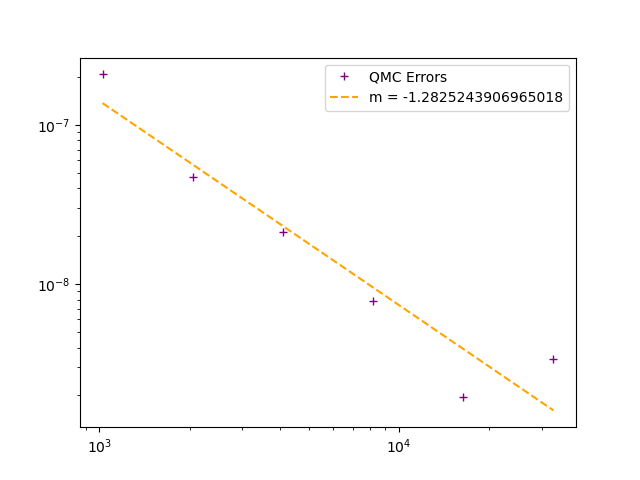
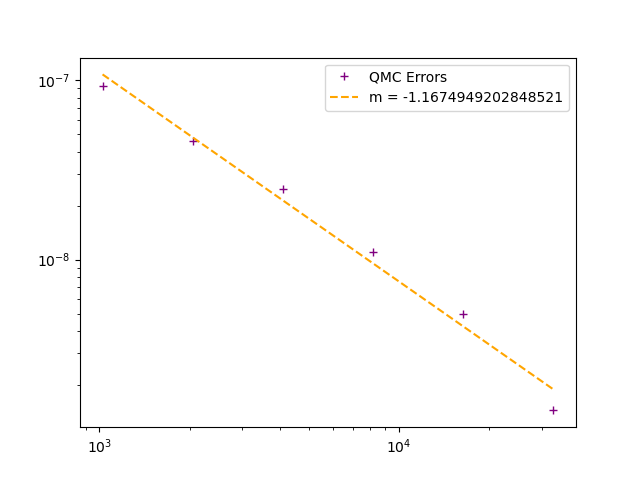
refactoring

diff --git a/Exercise Sheet 11/ex1.py b/Exercise Sheet 11/ex1.py
@@ -1,3 +1,11 @@
+"""
+@Author:    Christoph M. Jankowsky
+@Date:      2023-02-05
+
+My solutions to Sheet 11 - Exercise 1 of the course 
+Uncertainty Quantification and Quasi-Monte Carlo at FU Berlin.
+"""
+
 import numpy as np
 from scipy import interpolate
 from scipy.sparse.linalg import spsolve
@@ -6,7 +14,6 @@ import matplotlib.pyplot as plt
 from FEM import FEMdata, UpdateStiffness
 
 def findSol(level:int):
-    # Find FE solution on a coarse mesh
     mass,grad,nodes,element,interior,centers,ncoord,nelem = FEMdata(level)
     A = UpdateStiffness(grad,np.ones(centers.shape[0]))
     f = lambda x: x[:, 0]
@@ -22,15 +29,12 @@ if __name__ == "__main__":
     errors = np.zeros(4)
 
     for level in range(4):
-        # Find FE solution on a coarse mesh
         sol_coarse, nodes_coarse, _ = findSol(level+1)
-        # Interpolate the coarse FE results onto dense FE mesh
         sol_interp = interpolate.griddata((nodes_coarse[:,0],nodes_coarse[:,1]),sol_coarse,(nodes_ref[:,0],nodes_ref[:,1]))
-        # Compute the L2 error between the two FE solutions
         errors[level] = (np.sqrt((sol_ref-sol_interp).T @ mass_ref @ (sol_ref-sol_interp)))
 
     for level, error in enumerate(errors):
-        print(f"Error at level {level+1}: {error}.")
+        print(f"Error at level {level+1}: \t{error}.")
 
     plt.plot(range(1,5), errors, label="Finite Element Errors", marker="+", ls="", color="purple")
     m,b = np.polyfit(range(1,5), errors, 1)

diff --git a/Exercise Sheet 11/ex3.py b/Exercise Sheet 11/ex3.py
@@ -1,3 +1,11 @@
+"""
+@Author:    Christoph M. Jankowsky
+@Date:      2023-02-05
+
+My solutions to Sheet 11 - Exercise 3 of the course 
+Uncertainty Quantification and Quasi-Monte Carlo at FU Berlin.
+"""
+
 import time
 import numpy as np
 from scipy import sparse
@@ -8,7 +16,6 @@ import matplotlib.pyplot as plt
 from FEM import FEMdata, UpdateStiffness
 
 if __name__ == "__main__":
-    # Load FEM data
     mass, grad, nodes, element, interior, centers, ncoord, nelem = FEMdata(5)
 
     random_field_decay = 2.0
@@ -17,10 +24,10 @@ if __name__ == "__main__":
     deterministic = indices**(-random_field_decay) * np.sin(np.pi * indices * centers[:,0]) * np.sin(np.pi * indices * centers[:,1])
     a = lambda y: 2 + y @ deterministic
 
-    f = lambda x: x[:,0] # source term
+    f = lambda x: x[:,0]
     rhs = mass[interior,:] @ f(nodes)
 
-    R = 4
+    R = 16
     generating_vector = np.loadtxt('Exercise Sheet 11/data/offtheshelf2048.txt')
     z = generating_vector[:s]
 
@@ -38,7 +45,7 @@ if __name__ == "__main__":
     for n_qmc_nodes in N:
         results = []
     
-        # For each random shift, compute the QMC estimate using n cubature nodes
+        # For each random shift, compute the QMC estimate using (n_qmc_nodes) cubature nodes
         print(f"Solving {n_qmc_nodes} PDEs in parallel with {R} random shifts...")
         t = time.perf_counter()
         with Parallel(n_jobs=-1, verbose=0) as parallel:

diff --git a/Exercise Sheet 11/ex2.py b/Exercise Sheet 11/ex2.py
@@ -1,3 +1,11 @@
+"""
+@Author:    Christoph M. Jankowsky
+@Date:      2023-02-05
+
+My solutions to Sheet 11 - Exercise 2 of the course 
+Uncertainty Quantification and Quasi-Monte Carlo at FU Berlin.
+"""
+
 import time
 import numpy as np
 from scipy import sparse
@@ -8,10 +16,9 @@ import matplotlib.pyplot as plt
 from FEM import FEMdata, UpdateStiffness
 
 if __name__ == "__main__":
-    # Load FEM data
     mass, grad, nodes, element, interior, centers, ncoord, nelem = FEMdata(5)
     random_field_decay = 2.0
-    f = lambda x: x[:,0] # source term
+    f = lambda x: x[:,0]
     rhs = mass[interior,:] @ f(nodes)
     n_qmc_nodes = 2**15
     generating_vector = np.loadtxt('Exercise Sheet 11/data/offtheshelf2048.txt')
@@ -23,7 +30,7 @@ if __name__ == "__main__":
             qmcnode = np.mod(i*z/n,1)-1/2
             A = UpdateStiffness(grad,a(qmcnode))
             sol = spsolve(A[np.ix_(interior,interior)],rhs)
-            return ones @ mass[np.ix_(interior,interior)] @ sol # quantity of interest
+            return ones @ mass[np.ix_(interior,interior)] @ sol
 
     for s in S:
         indices = np.arange(1,s+1).reshape((s,1))

diff --git a/Exercise Sheet 11/ex4.py b/Exercise Sheet 11/ex4.py
@@ -1,3 +1,11 @@
+"""
+@Author:    Christoph M. Jankowsky
+@Date:      2023-02-05
+
+My solutions to Sheet 11 - Exercise 4 of the course 
+Uncertainty Quantification and Quasi-Monte Carlo at FU Berlin.
+"""
+
 import time
 import numpy as np
 from scipy import sparse
@@ -21,7 +29,7 @@ if __name__ == "__main__":
     f = lambda x: x[:,0] # source term
     rhs = mass[interior,:] @ f(nodes)
 
-    R = 4
+    R = 16
     generating_vector = np.loadtxt('Exercise Sheet 11/data/offtheshelf2048.txt')
     z = generating_vector[:s]
 
@@ -51,7 +59,7 @@ if __name__ == "__main__":
             
         # Take the average of the R QMC approximations as the final estimate
         qmcavg = np.mean(results)
-        rmserror = np.linalg.norm(qmcavg-results)/np.sqrt(R*(R-1)) # R.M.S. error estimate
+        rmserror = np.linalg.norm(qmcavg-results)/np.sqrt(R*(R-1))
         
         errors.append(rmserror)
 

diff --git a/Exercise Sheet 11/FEM.py b/Exercise Sheet 11/FEM.py
@@ -1,3 +1,11 @@
+"""
+@Author:    Christoph M. Jankowsky
+@Date:      2023-02-05
+
+Helper functions for Sheet 11 of the course 
+Uncertainty Quantification and Quasi-Monte Carlo at FU Berlin.
+"""
+
 import numpy as np
 import scipy.io
 from scipy import sparse
